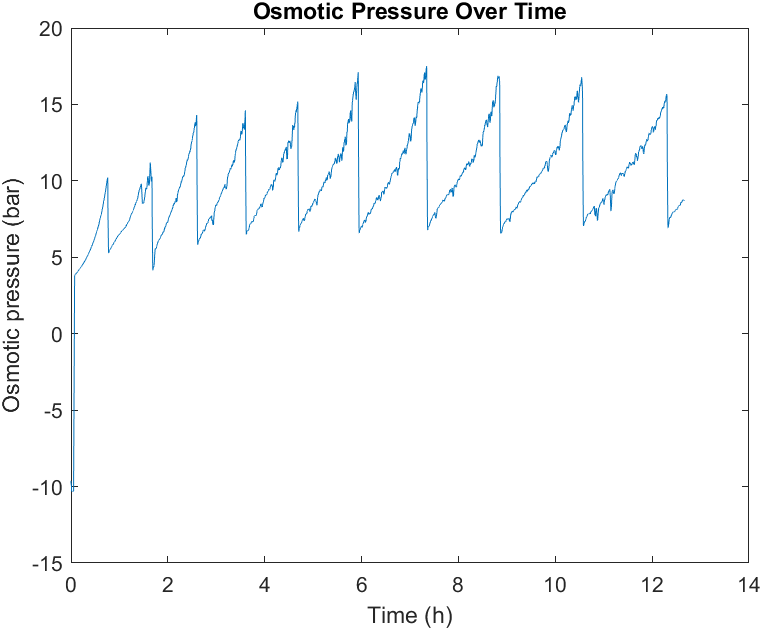
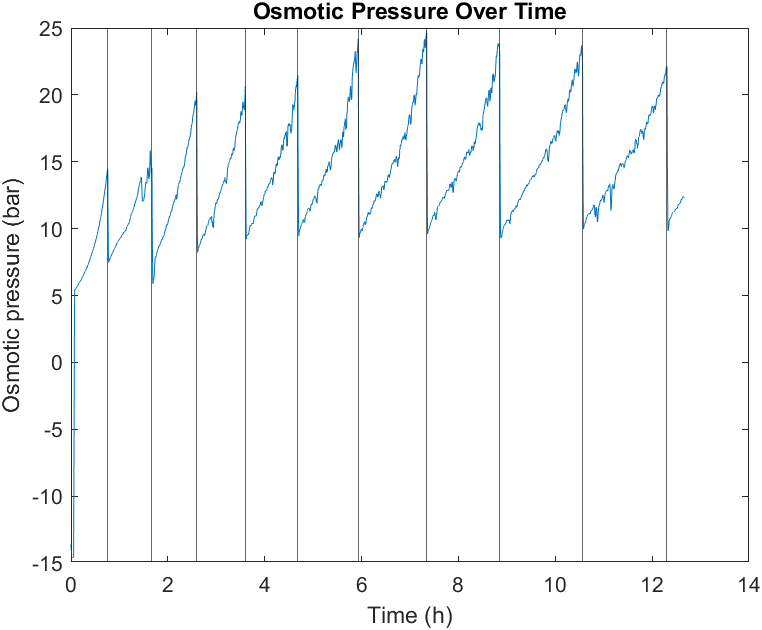
Update data graphs part 1

diff --git a/Arduino + Daq/salinity_simulator.m b/Arduino + Daq/salinity_simulator.m
@@ -1,4 +1,4 @@
-function [dist_full,dist_empty,batch_vol,brine_vol,brine_concn,min_feed_pres,batch_conductivity,brine_conductivity,grams_CaCl_dihydrate,grams_Na2SO4,feed_vol_gallon,batch_number, tot_Na2SO4, tot_CaCl] = salinity_simulator(feed_concn,batch_time,RR,avg_flux,total_time)
+function [dist_full,dist_empty,batch_vol,brine_vol,brine_concn,min_feed_pres,batch_conductivity,brine_conductivity,grams_CaCl_dihydrate,grams_Na2SO4,feed_vol_gallon,batch_number, tot_Na2SO4, tot_CaCl, ini_flowrate_ml_min] = salinity_simulator(feed_concn,batch_time,RR,ini_flux,total_time)
 % calculate batch volume(L), distance of full and empty(cm), minimal feed
 % pressure(psi), brine conductvity(mS), Na2SO4 and CaCl2-H2O needed(g)
 % based on intended feed concentration(mM), batch time(hour), average flux
@@ -9,8 +9,8 @@ function [dist_full,dist_empty,batch_vol,brine_vol,brine_concn,min_feed_pres,bat
 membrane_area = 0.0238; % m^2 (SW measurement feed side, 2019 module)
 T = 25 + 273.15; % Kelvin, tempareture of water
 flush_tube_volume = 0.10; % L, estimated with current tubing loop (remeasure!)
-Kw= 2.135; %L/m2.h.bar, calculated with BW30-4040 membrane and adjusted based on test data
-unit_condu = 0.495;    % mS/cm, conductivity of 1mM of CaSO4 and 2mM of NaCl
+Kw= 2.6; %L/m2.h.bar, calculated with BW30-4040 membrane and adjusted based on test data
+unit_condu = 0.35;    % mS/cm, conductivity of 1mM of CaSO4 and 2mM of NaCl
 
 % calculate for minimal hydraulic pressure
 brine_concn = feed_concn / (1 - RR);% mM,concentration of CaSO4 in brine
@@ -21,9 +21,10 @@ brine_membrane_osmotic = 0.1450 * 1.1 * brine_osmotic; % psi, brine osmotic pres
 
 % calculate for batch volume
 avg_osmotic =(feed_membrane_osmotic + brine_membrane_osmotic) / 2; % psi
-min_feed_pres = avg_flux / Kw / 0.06895 + avg_osmotic; %psi, minimal hydraulic pressure needed
-avg_flowrate = avg_flux * membrane_area % L/h
-batch_vol = batch_time * avg_flowrate; % L
+min_feed_pres = ini_flux / Kw / 0.06895 + avg_osmotic; %psi, minimal hydraulic pressure needed
+ini_flowrate = ini_flux * membrane_area; % L/h
+ini_flowrate_ml_min = ini_flowrate * 1000 / 60; % convert to ml/min
+batch_vol = batch_time * ini_flowrate; % L
 brine_vol = batch_vol * (1 - RR); % L
 
 % calculate tank distances of full and empty
@@ -34,16 +35,16 @@ dist_full = Reverse_Tank_Calculation(batch_vol);
 [grams_CaCl_dihydrate,grams_Na2SO4]= CaSO4_mixing(feed_concn/1000, batch_vol);% inputs: concentration(mol/L)
                                                                               %         volume(L)
                                                                               % outputs: grams per batch
-
 % calculate conductivities
 brine_conductivity = brine_concn * unit_condu; % mS
 batch_conductivity = feed_concn * unit_condu; % mS
 
-% calculate total feed water volume
+% estimate total feed water volume base on initial conditions
 batch_number = total_time / batch_time;
 feed_vol = batch_number * batch_vol; % L
 feed_vol_gallon = 0.2642 * feed_vol; % gallon
 tot_CaCl = grams_CaCl_dihydrate * batch_number;
 tot_Na2SO4 = grams_Na2SO4 * batch_number;
+
 end
 
